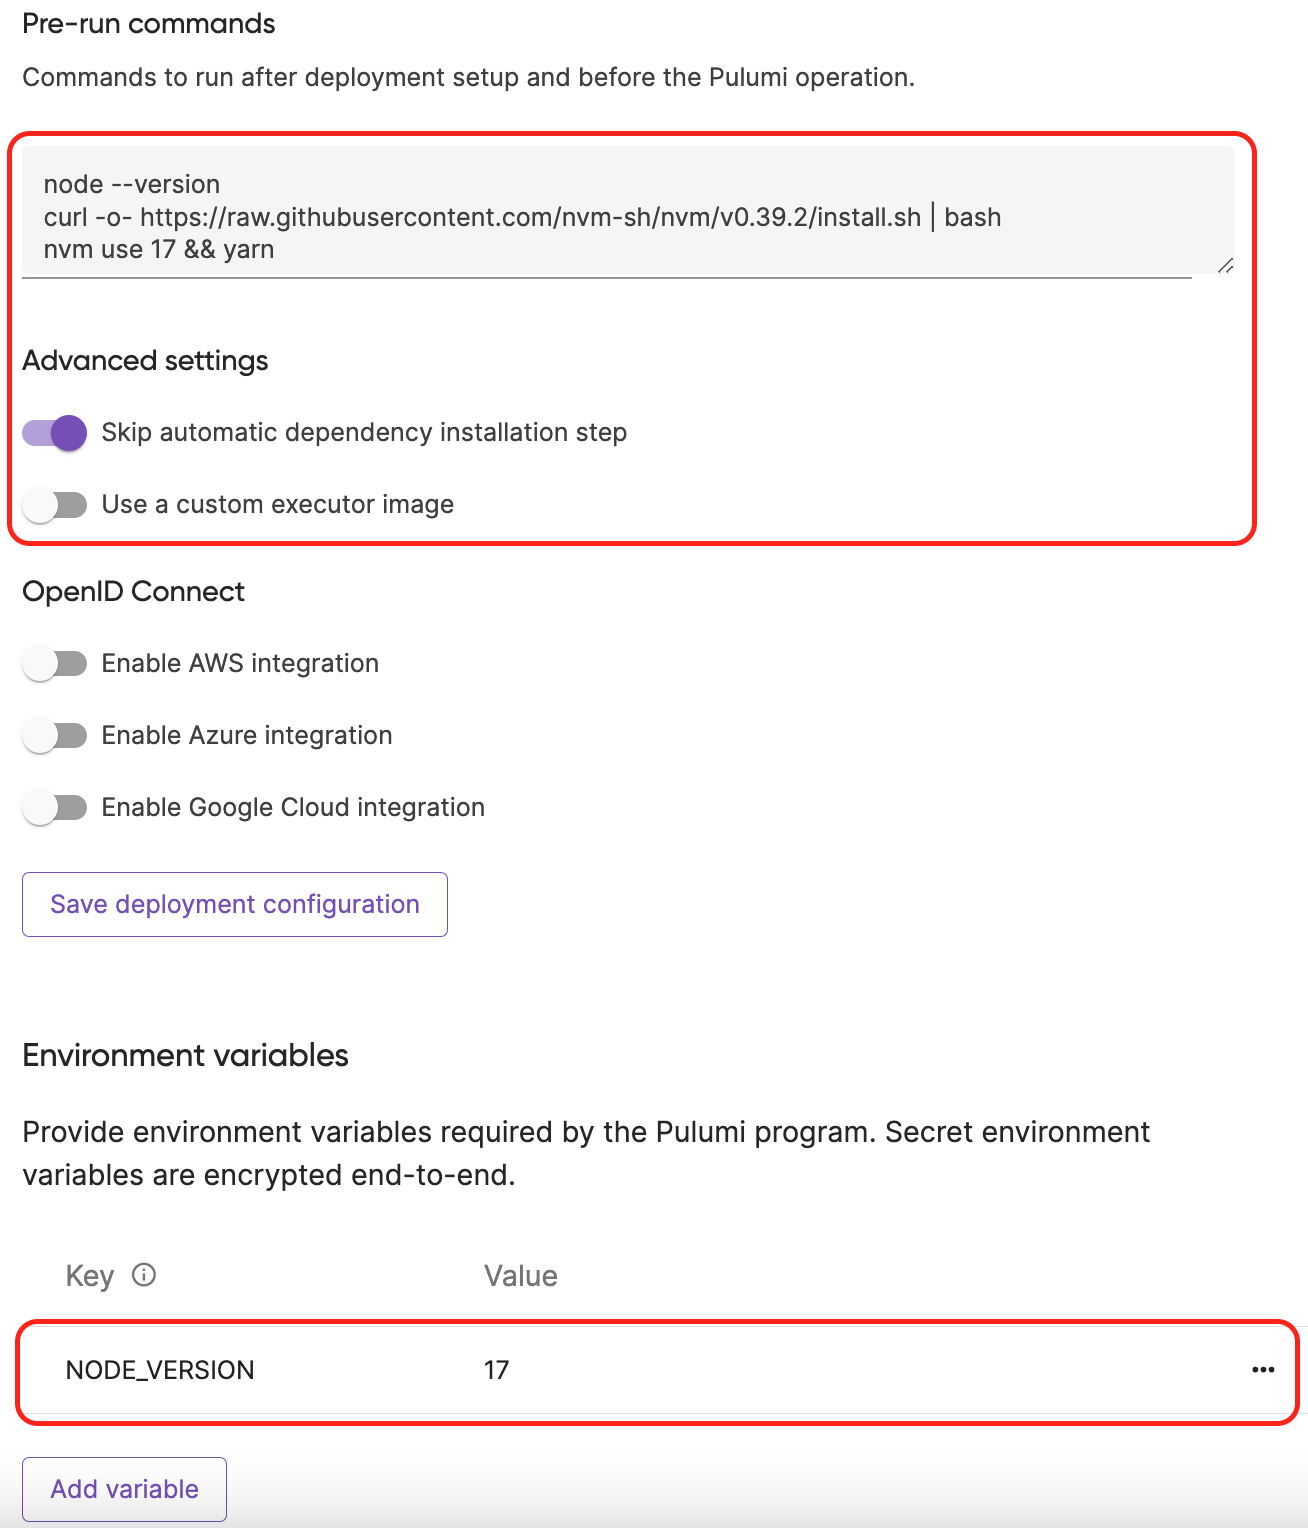
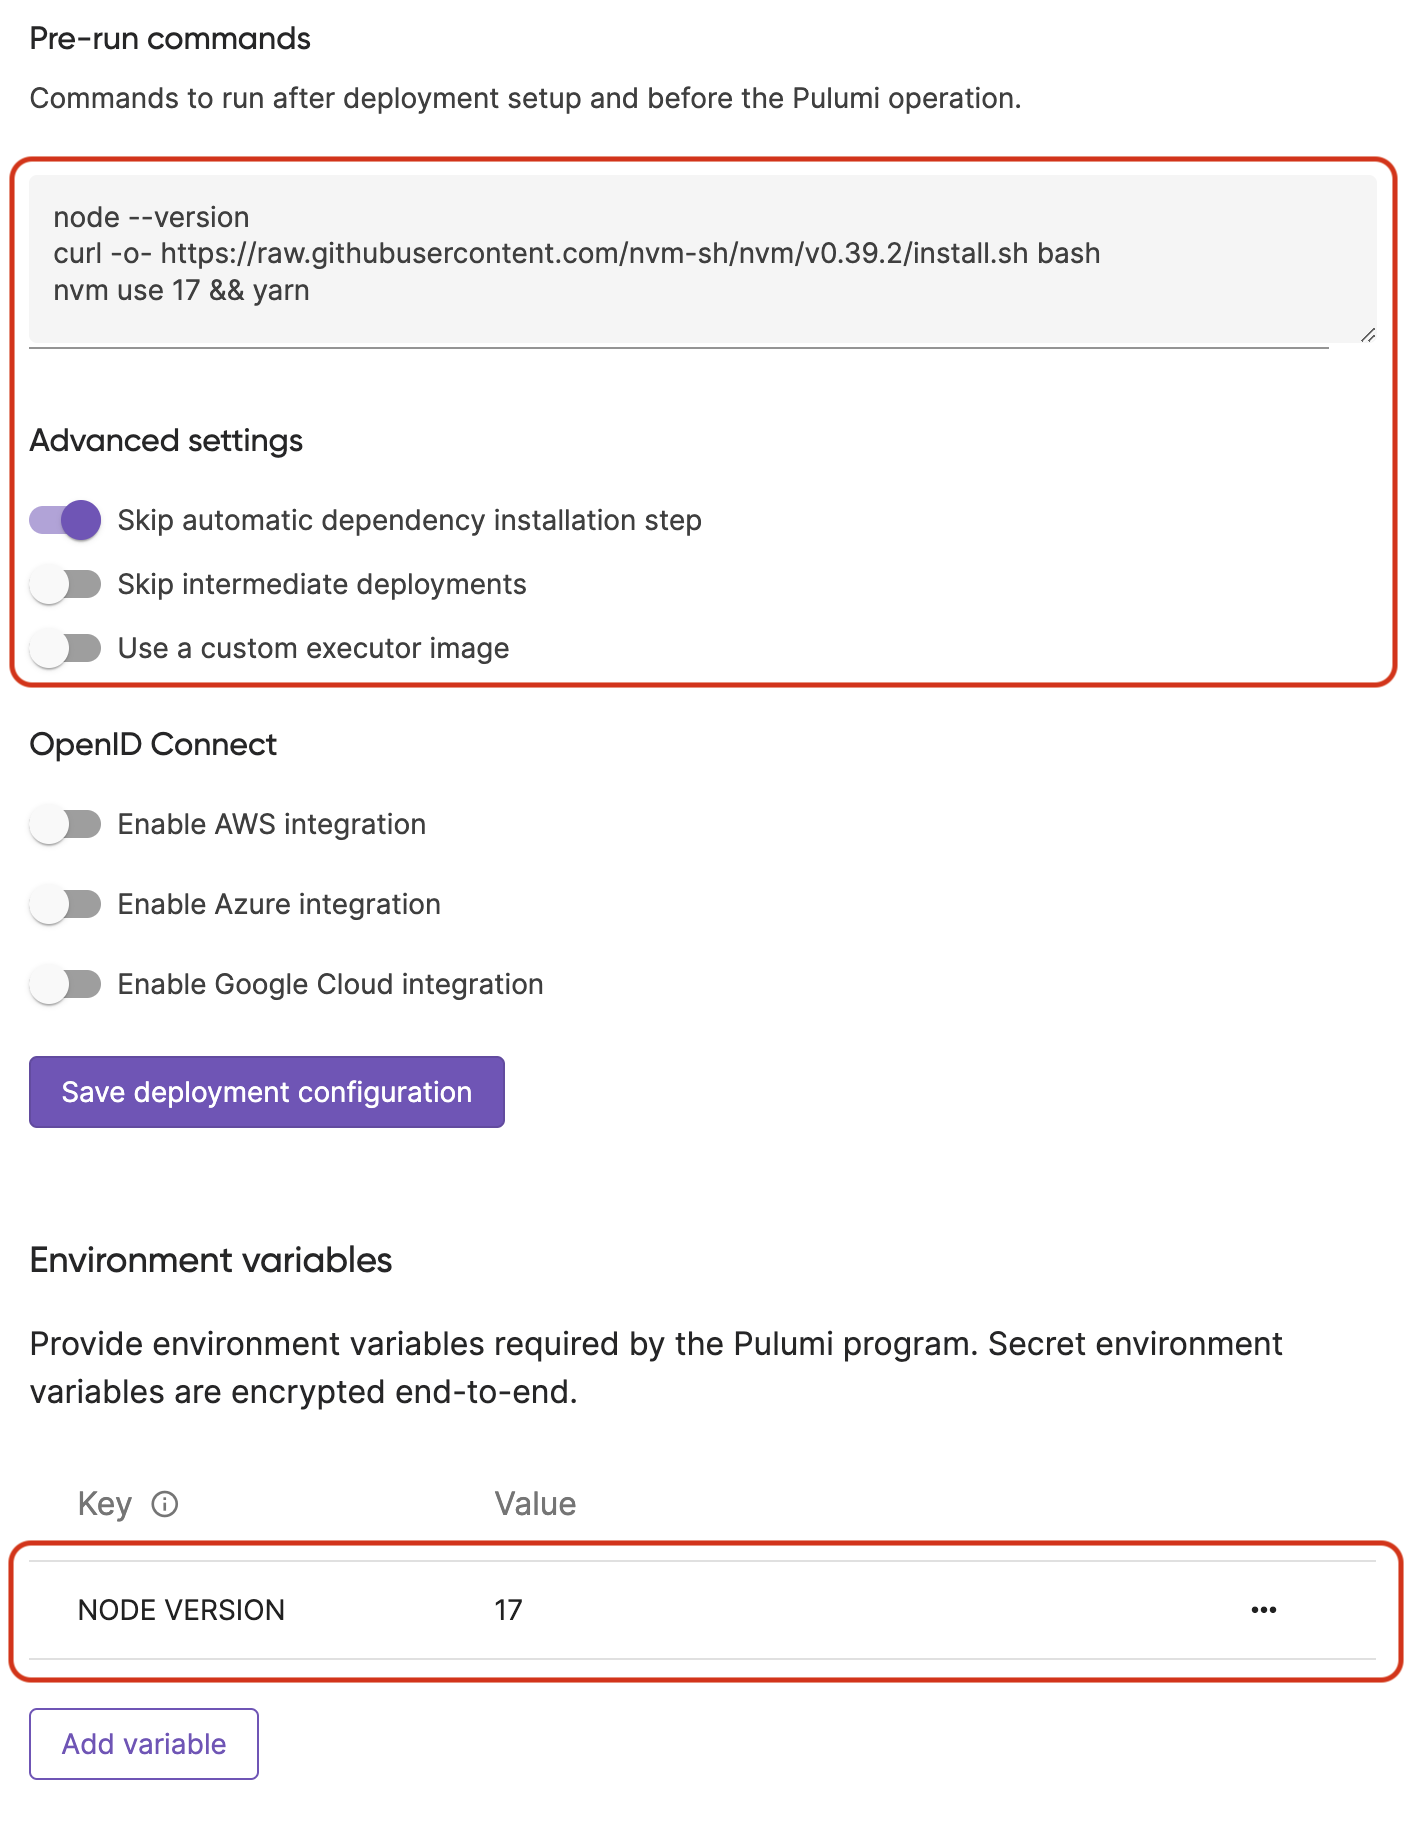
Add new skip intermediate deployments documentation (#3308)
* Add new skip intermediate deployments documentation

* Update themes/default/content/docs/pulumi-cloud/deployments/reference.md

* fix screenshot

* include annotations

* now with the right switch

---------

Changed region(s): [[0.0, 0.0, 1.0, 0.6459], [0.0, 0.6767, 1.0, 1.0]]

diff --git a/themes/default/content/docs/pulumi-cloud/deployments/reference.md b/themes/default/content/docs/pulumi-cloud/deployments/reference.md
@@ -228,6 +228,12 @@ Path filters are relative to the repository root, and should reference a file by
 
 As with any other deployment setting, the path filters may be set via the Pulumi Console, using the REST API or defined in code using the Service provider.
 
+### Skip intermediate deployments
+
+By default, when multiple deployments are pushed, they will be executed sequentially until the backlog is completed. In some cases, you may wish to only execute the most recent deployment since the changes are accumulative. By enabling the `Skip intermediate deployments` setting, Pulumi will skip all intermediary deployments of the same type and will execute only the latest.
+
+![Pulumi UI - Skip intermediate deployments](../ui-skip-intermediate-deployments.png)
+
 ### Customizing the Deployment Environment
 
 By default, the deployment is executed using the [pulumi/pulumi](https://hub.docker.com/r/pulumi/pulumi) image. However, there may be scenarios where you might want to customize the image used for the execution, e.g. if you want to use a different version of python or need to include additional dependencies.
